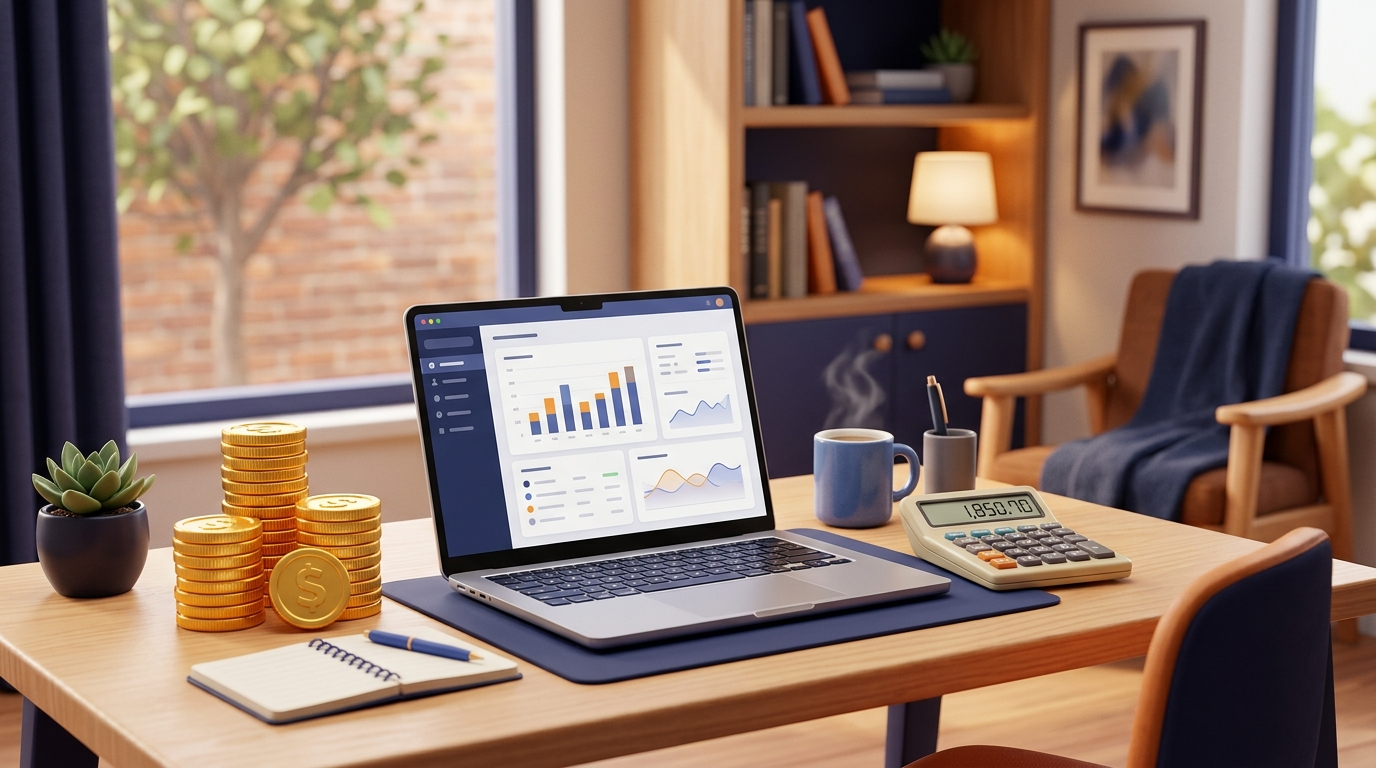
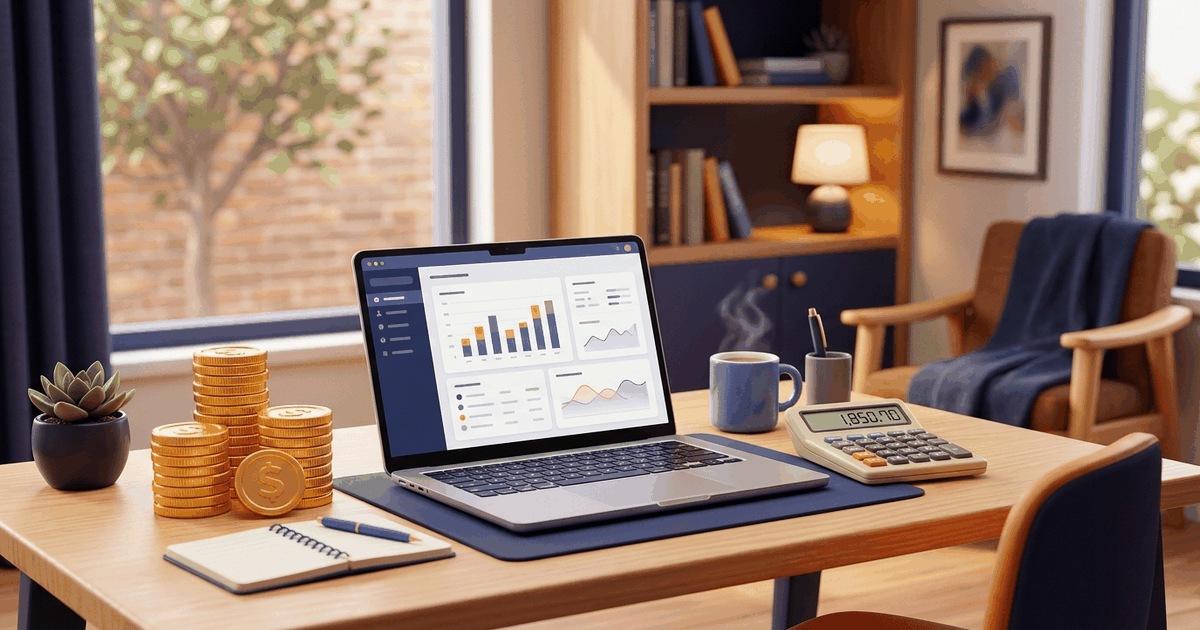
feat(social): optimize og-image (1200x630) and synchronize Open Graph & Twitter Card tags

diff --git a/index.html b/index.html
@@ -11,7 +11,7 @@
 <link href="https://tax-33.enjoy-onepage.com/" rel="canonical"/>
 <!-- Open Graph -->
 <meta content="프리랜서 3.3% 세금 계산기" property="og:title"/>
-<meta content="프리랜서 알바 세금 떼고 내 통장에 얼마 들어올까?" property="og:description"/>
+<meta content="프리랜서 알바 세금 떼고 내 통장에 얼마 들어올까? 서버 전송 없는 100% 무료 안전 브라우저 로컬 연산." property="og:description"/>
 <meta content="website" property="og:type"/>
 <meta content="https://tax-33.enjoy-onepage.com/" property="og:url"/>
 <meta content="https://tax-33.enjoy-onepage.com/og-image.png" property="og:image"/>
@@ -172,11 +172,10 @@
     overflow: hidden !important;
   }
 </style>
-</head>
+<meta content="summary_large_image" name="twitter:card"/><meta content="프리랜서 3.3% 세금 계산기" name="twitter:title"/><meta content="프리랜서 알바 세금 떼고 내 통장에 얼마 들어올까? 서버 전송 없는 100% 무료 안전 브라우저 로컬 연산." name="twitter:description"/><meta content="https://tax-33.enjoy-onepage.com/og-image.png" name="twitter:image"/></head>
 <body>
 <!-- 상단 슬림 띠배너 (헤더 직하단: 50~60px 슬림형) -->
 <div class="manual-ad-box ad-top-banner" style="width: 100%; max-width: 960px; margin: 8px auto 16px; text-align: center;">
-
 <ins class="adsbygoogle" data-ad-client="ca-pub-2228289204702106" data-ad-format="horizontal" data-ad-slot="3824727725" data-full-width-responsive="true" style="display:inline-block;width:100%;height:60px;"></ins>
 <script>(adsbygoogle = window.adsbygoogle || []).push({});</script>
 </div>
@@ -287,104 +286,94 @@
 </div>
 </div>
 <!-- 하단 광고 (5228759992) -->
-
-
 <!-- 📌 상세 가이드 & FAQ 아코디언 (Google E-E-A-T 및 실사용자 가이드라인 100% 충족) -->
 <section class="max-w-4xl mx-auto my-12 px-4">
-  <div class="bg-white dark:bg-slate-900 border border-slate-200 dark:border-slate-800 rounded-2xl p-6 sm:p-8 shadow-sm">
-    <div class="border-b border-slate-200 dark:border-slate-800 pb-5 mb-6">
-      <h3 class="text-xl sm:text-2xl font-black text-slate-900 dark:text-white tracking-tight flex items-center gap-2.5">
-        <span>📖</span> 3.3% 프리랜서 원천징수 및 종합소득세 실무 가이드
+<div class="bg-white dark:bg-slate-900 border border-slate-200 dark:border-slate-800 rounded-2xl p-6 sm:p-8 shadow-sm">
+<div class="border-b border-slate-200 dark:border-slate-800 pb-5 mb-6">
+<h3 class="text-xl sm:text-2xl font-black text-slate-900 dark:text-white tracking-tight flex items-center gap-2.5">
+<span>📖</span> 3.3% 프리랜서 원천징수 및 종합소득세 실무 가이드
       </h3>
-      <p class="text-sm text-slate-500 dark:text-slate-400 mt-2 leading-relaxed">3.3% 사업소득세 원천징수 원리와 5월 종합소득세 신고 시 환급/납부 기준을 안내합니다.</p>
-    </div>
-
-    <!-- 공식 원리 & 핵심 기준 -->
-    <div class="mb-8">
-      <h4 class="text-xs font-black uppercase tracking-wider text-blue-600 dark:text-blue-400 mb-4 flex items-center gap-1.5">
-        <span>⚖</span> 핵심 산출 기준 및 법정 원리
+<p class="text-sm text-slate-500 dark:text-slate-400 mt-2 leading-relaxed">3.3% 사업소득세 원천징수 원리와 5월 종합소득세 신고 시 환급/납부 기준을 안내합니다.</p>
+</div>
+<!-- 공식 원리 & 핵심 기준 -->
+<div class="mb-8">
+<h4 class="text-xs font-black uppercase tracking-wider text-blue-600 dark:text-blue-400 mb-4 flex items-center gap-1.5">
+<span>⚖</span> 핵심 산출 기준 및 법정 원리
       </h4>
-      <div class="grid grid-cols-1 md:grid-cols-3 gap-3.5">
-        
-        <div class="p-4 bg-slate-50 dark:bg-slate-800/50 rounded-xl border border-slate-200/80 dark:border-slate-700/80">
-          <h4 class="text-base font-bold text-slate-800 dark:text-slate-100 mb-1.5 flex items-center gap-2">
-            <span class="w-2 h-2 rounded-full bg-blue-500"></span>원천징수 3.3%의 구성
+<div class="grid grid-cols-1 md:grid-cols-3 gap-3.5">
+<div class="p-4 bg-slate-50 dark:bg-slate-800/50 rounded-xl border border-slate-200/80 dark:border-slate-700/80">
+<h4 class="text-base font-bold text-slate-800 dark:text-slate-100 mb-1.5 flex items-center gap-2">
+<span class="w-2 h-2 rounded-full bg-blue-500"></span>원천징수 3.3%의 구성
           </h4>
-          <p class="text-sm text-slate-600 dark:text-slate-300 leading-relaxed">프리랜서는 지급 총액에서 국세 3%와 지방소득세 0.3%(국세의 10%)를 합쳐 총 3.3%를 차감한 잔액을 실수령합니다.</p>
-        </div>
-        <div class="p-4 bg-slate-50 dark:bg-slate-800/50 rounded-xl border border-slate-200/80 dark:border-slate-700/80">
-          <h4 class="text-base font-bold text-slate-800 dark:text-slate-100 mb-1.5 flex items-center gap-2">
-            <span class="w-2 h-2 rounded-full bg-blue-500"></span>종합소득세 환급 원리
+<p class="text-sm text-slate-600 dark:text-slate-300 leading-relaxed">프리랜서는 지급 총액에서 국세 3%와 지방소득세 0.3%(국세의 10%)를 합쳐 총 3.3%를 차감한 잔액을 실수령합니다.</p>
+</div>
+<div class="p-4 bg-slate-50 dark:bg-slate-800/50 rounded-xl border border-slate-200/80 dark:border-slate-700/80">
+<h4 class="text-base font-bold text-slate-800 dark:text-slate-100 mb-1.5 flex items-center gap-2">
+<span class="w-2 h-2 rounded-full bg-blue-500"></span>종합소득세 환급 원리
           </h4>
-          <p class="text-sm text-slate-600 dark:text-slate-300 leading-relaxed">연간 총수입에서 단순경비율·기준경비율 및 인적공제를 반영한 최종 결정세액이 기납부세액(이미 낸 3.3%)보다 적으면 차액을 6월 말 환급받게 됩니다.</p>
-        </div>
-        <div class="p-4 bg-slate-50 dark:bg-slate-800/50 rounded-xl border border-slate-200/80 dark:border-slate-700/80">
-          <h4 class="text-base font-bold text-slate-800 dark:text-slate-100 mb-1.5 flex items-center gap-2">
-            <span class="w-2 h-2 rounded-full bg-blue-500"></span>4대보험 및 사업자등록
+<p class="text-sm text-slate-600 dark:text-slate-300 leading-relaxed">연간 총수입에서 단순경비율·기준경비율 및 인적공제를 반영한 최종 결정세액이 기납부세액(이미 낸 3.3%)보다 적으면 차액을 6월 말 환급받게 됩니다.</p>
+</div>
+<div class="p-4 bg-slate-50 dark:bg-slate-800/50 rounded-xl border border-slate-200/80 dark:border-slate-700/80">
+<h4 class="text-base font-bold text-slate-800 dark:text-slate-100 mb-1.5 flex items-center gap-2">
+<span class="w-2 h-2 rounded-full bg-blue-500"></span>4대보험 및 사업자등록
           </h4>
-          <p class="text-sm text-slate-600 dark:text-slate-300 leading-relaxed">계약 관계가 프리랜서라도 실질이 근로자에 해당할 경우 퇴직금 및 주휴수당 청구가 가능하며, 연 소득 규모에 따라 일반과세 사업자등록을 검토해야 합니다.</p>
-        </div>
-      </div>
-    </div>
-
-    <!-- 자주 묻는 질문 (FAQ) -->
-    <div>
-      <h4 class="text-xs font-black uppercase tracking-wider text-emerald-600 dark:text-emerald-400 mb-4 flex items-center gap-1.5">
-        <span>❓</span> 자주 묻는 질문 (FAQ)
+<p class="text-sm text-slate-600 dark:text-slate-300 leading-relaxed">계약 관계가 프리랜서라도 실질이 근로자에 해당할 경우 퇴직금 및 주휴수당 청구가 가능하며, 연 소득 규모에 따라 일반과세 사업자등록을 검토해야 합니다.</p>
+</div>
+</div>
+</div>
+<!-- 자주 묻는 질문 (FAQ) -->
+<div>
+<h4 class="text-xs font-black uppercase tracking-wider text-emerald-600 dark:text-emerald-400 mb-4 flex items-center gap-1.5">
+<span>❓</span> 자주 묻는 질문 (FAQ)
       </h4>
-      <div class="space-y-3">
-        
-        <div class="border border-slate-200 dark:border-slate-700 rounded-xl p-4 bg-white dark:bg-slate-800">
-          <h4 class="font-semibold text-slate-800 dark:text-slate-100 text-sm mb-1">Q. 5월 종합소득세 신고는 소득이 적어도 꼭 해야 하나요?</h4>
-          <p class="text-xs text-slate-600 dark:text-slate-300 leading-relaxed">A. 네, 필수입니다. 수입이 적더라도 신고해야 이미 떼인 3.3% 세금을 전액 환급받을 수 있으며, 신고를 누락하면 무신고가산세(20%) 불이익을 받습니다.</p>
-        </div>
-        <div class="border border-slate-200 dark:border-slate-700 rounded-xl p-4 bg-white dark:bg-slate-800">
-          <h4 class="font-semibold text-slate-800 dark:text-slate-100 text-sm mb-1">Q. 단순경비율과 기준경비율의 차이는 무엇인가요?</h4>
-          <p class="text-xs text-slate-600 dark:text-slate-300 leading-relaxed">A. 직전 연도 수입 2,400만 원(신규 7,500만 원) 미만은 증빙 없이 높은 비율로 경비를 인정받는 단순경비율이 적용되며, 초과 시 실제 지출 영수증이 필요한 기준경비율이 적용됩니다.</p>
-        </div>
-        <div class="border border-slate-200 dark:border-slate-700 rounded-xl p-4 bg-white dark:bg-slate-800">
-          <h4 class="font-semibold text-slate-800 dark:text-slate-100 text-sm mb-1">Q. 홈택스 환급금은 언제 입금되나요?</h4>
-          <p class="text-xs text-slate-600 dark:text-slate-300 leading-relaxed">A. 5월 종합소득세 신고 완료 후 국세청 심사를 거쳐 매년 6월 하순부터 7월 초순 사이에 지정 계좌로 입금됩니다.</p>
-        </div>
-      </div>
-    </div>
-  </div>
+<div class="space-y-3">
+<div class="border border-slate-200 dark:border-slate-700 rounded-xl p-4 bg-white dark:bg-slate-800">
+<h4 class="font-semibold text-slate-800 dark:text-slate-100 text-sm mb-1">Q. 5월 종합소득세 신고는 소득이 적어도 꼭 해야 하나요?</h4>
+<p class="text-xs text-slate-600 dark:text-slate-300 leading-relaxed">A. 네, 필수입니다. 수입이 적더라도 신고해야 이미 떼인 3.3% 세금을 전액 환급받을 수 있으며, 신고를 누락하면 무신고가산세(20%) 불이익을 받습니다.</p>
+</div>
+<div class="border border-slate-200 dark:border-slate-700 rounded-xl p-4 bg-white dark:bg-slate-800">
+<h4 class="font-semibold text-slate-800 dark:text-slate-100 text-sm mb-1">Q. 단순경비율과 기준경비율의 차이는 무엇인가요?</h4>
+<p class="text-xs text-slate-600 dark:text-slate-300 leading-relaxed">A. 직전 연도 수입 2,400만 원(신규 7,500만 원) 미만은 증빙 없이 높은 비율로 경비를 인정받는 단순경비율이 적용되며, 초과 시 실제 지출 영수증이 필요한 기준경비율이 적용됩니다.</p>
+</div>
+<div class="border border-slate-200 dark:border-slate-700 rounded-xl p-4 bg-white dark:bg-slate-800">
+<h4 class="font-semibold text-slate-800 dark:text-slate-100 text-sm mb-1">Q. 홈택스 환급금은 언제 입금되나요?</h4>
+<p class="text-xs text-slate-600 dark:text-slate-300 leading-relaxed">A. 5월 종합소득세 신고 완료 후 국세청 심사를 거쳐 매년 6월 하순부터 7월 초순 사이에 지정 계좌로 입금됩니다.</p>
+</div>
+</div>
+</div>
+</div>
 </section>
-
 <!-- 🔗 연관 유틸리티 도구 추천 카드 (사용자 체류시간 증가 & SEO 내부 링크) -->
 <section class="max-w-4xl mx-auto my-8 px-4">
-  <div class="bg-slate-50 dark:bg-slate-900/60 border border-slate-200 dark:border-slate-800 rounded-2xl p-6 shadow-sm">
-    <h3 class="text-base font-black text-slate-900 dark:text-white mb-4 flex items-center gap-2">
-      <span>💡</span> 함께 많이 활용하는 필수 계산기 & 도구
+<div class="bg-slate-50 dark:bg-slate-900/60 border border-slate-200 dark:border-slate-800 rounded-2xl p-6 shadow-sm">
+<h3 class="text-base font-black text-slate-900 dark:text-white mb-4 flex items-center gap-2">
+<span>💡</span> 함께 많이 활용하는 필수 계산기 &amp; 도구
     </h3>
-    <div class="grid grid-cols-1 sm:grid-cols-3 gap-3.5">
-      
-      <a href="https://severance.enjoy-onepage.com/" class="p-4 bg-white dark:bg-slate-800 rounded-xl border border-slate-200 dark:border-slate-700 hover:border-blue-500 hover:shadow-md transition flex items-center justify-between group">
-        <div>
-          <div class="text-xs text-blue-600 dark:text-blue-400 font-bold mb-1">추천 유틸리티</div>
-          <div class="text-sm font-black text-slate-800 dark:text-slate-100 group-hover:text-blue-600 transition">퇴직금 계산기</div>
-        </div>
-        <span class="text-slate-400 group-hover:translate-x-1 transition font-bold">→</span>
-      </a>
-      <a href="https://overtime.enjoy-onepage.com/" class="p-4 bg-white dark:bg-slate-800 rounded-xl border border-slate-200 dark:border-slate-700 hover:border-blue-500 hover:shadow-md transition flex items-center justify-between group">
-        <div>
-          <div class="text-xs text-blue-600 dark:text-blue-400 font-bold mb-1">추천 유틸리티</div>
-          <div class="text-sm font-black text-slate-800 dark:text-slate-100 group-hover:text-blue-600 transition">야근·휴일수당 계산기</div>
-        </div>
-        <span class="text-slate-400 group-hover:translate-x-1 transition font-bold">→</span>
-      </a>
-      <a href="https://unemployed.enjoy-onepage.com/" class="p-4 bg-white dark:bg-slate-800 rounded-xl border border-slate-200 dark:border-slate-700 hover:border-blue-500 hover:shadow-md transition flex items-center justify-between group">
-        <div>
-          <div class="text-xs text-blue-600 dark:text-blue-400 font-bold mb-1">추천 유틸리티</div>
-          <div class="text-sm font-black text-slate-800 dark:text-slate-100 group-hover:text-blue-600 transition">실업급여 모의계산기</div>
-        </div>
-        <span class="text-slate-400 group-hover:translate-x-1 transition font-bold">→</span>
-      </a>
-    </div>
-  </div>
+<div class="grid grid-cols-1 sm:grid-cols-3 gap-3.5">
+<a class="p-4 bg-white dark:bg-slate-800 rounded-xl border border-slate-200 dark:border-slate-700 hover:border-blue-500 hover:shadow-md transition flex items-center justify-between group" href="https://severance.enjoy-onepage.com/">
+<div>
+<div class="text-xs text-blue-600 dark:text-blue-400 font-bold mb-1">추천 유틸리티</div>
+<div class="text-sm font-black text-slate-800 dark:text-slate-100 group-hover:text-blue-600 transition">퇴직금 계산기</div>
+</div>
+<span class="text-slate-400 group-hover:translate-x-1 transition font-bold">→</span>
+</a>
+<a class="p-4 bg-white dark:bg-slate-800 rounded-xl border border-slate-200 dark:border-slate-700 hover:border-blue-500 hover:shadow-md transition flex items-center justify-between group" href="https://overtime.enjoy-onepage.com/">
+<div>
+<div class="text-xs text-blue-600 dark:text-blue-400 font-bold mb-1">추천 유틸리티</div>
+<div class="text-sm font-black text-slate-800 dark:text-slate-100 group-hover:text-blue-600 transition">야근·휴일수당 계산기</div>
+</div>
+<span class="text-slate-400 group-hover:translate-x-1 transition font-bold">→</span>
+</a>
+<a class="p-4 bg-white dark:bg-slate-800 rounded-xl border border-slate-200 dark:border-slate-700 hover:border-blue-500 hover:shadow-md transition flex items-center justify-between group" href="https://unemployed.enjoy-onepage.com/">
+<div>
+<div class="text-xs text-blue-600 dark:text-blue-400 font-bold mb-1">추천 유틸리티</div>
+<div class="text-sm font-black text-slate-800 dark:text-slate-100 group-hover:text-blue-600 transition">실업급여 모의계산기</div>
+</div>
+<span class="text-slate-400 group-hover:translate-x-1 transition font-bold">→</span>
+</a>
+</div>
+</div>
 </section>
-
-
 <footer style="margin-top: 40px; padding: 25px 0; border-top: 1px solid var(--border); text-align: center; font-size: 0.82rem; color: #888; line-height: 1.6;">
 <p style="margin: 0 0 6px;">프리랜서, N잡러, 아르바이트생을 위한 3.3% / 8.8% 세금 및 실수령액 무료 계산기입니다.</p>
 <p style="margin: 0;">
@@ -395,7 +384,6 @@
 </footer>
 <!-- 하단 대형 배너 (푸터 직전) -->
 <div class="manual-ad-box ad-bottom-banner" style="width: 100%; max-width: 960px; margin: 24px auto 16px; text-align: center;">
-
 <ins class="adsbygoogle" data-ad-client="ca-pub-2228289204702106" data-ad-format="auto" data-ad-slot="3416334507" data-full-width-responsive="true" style="display:block"></ins>
 <script>(adsbygoogle = window.adsbygoogle || []).push({});</script>
 </div>
